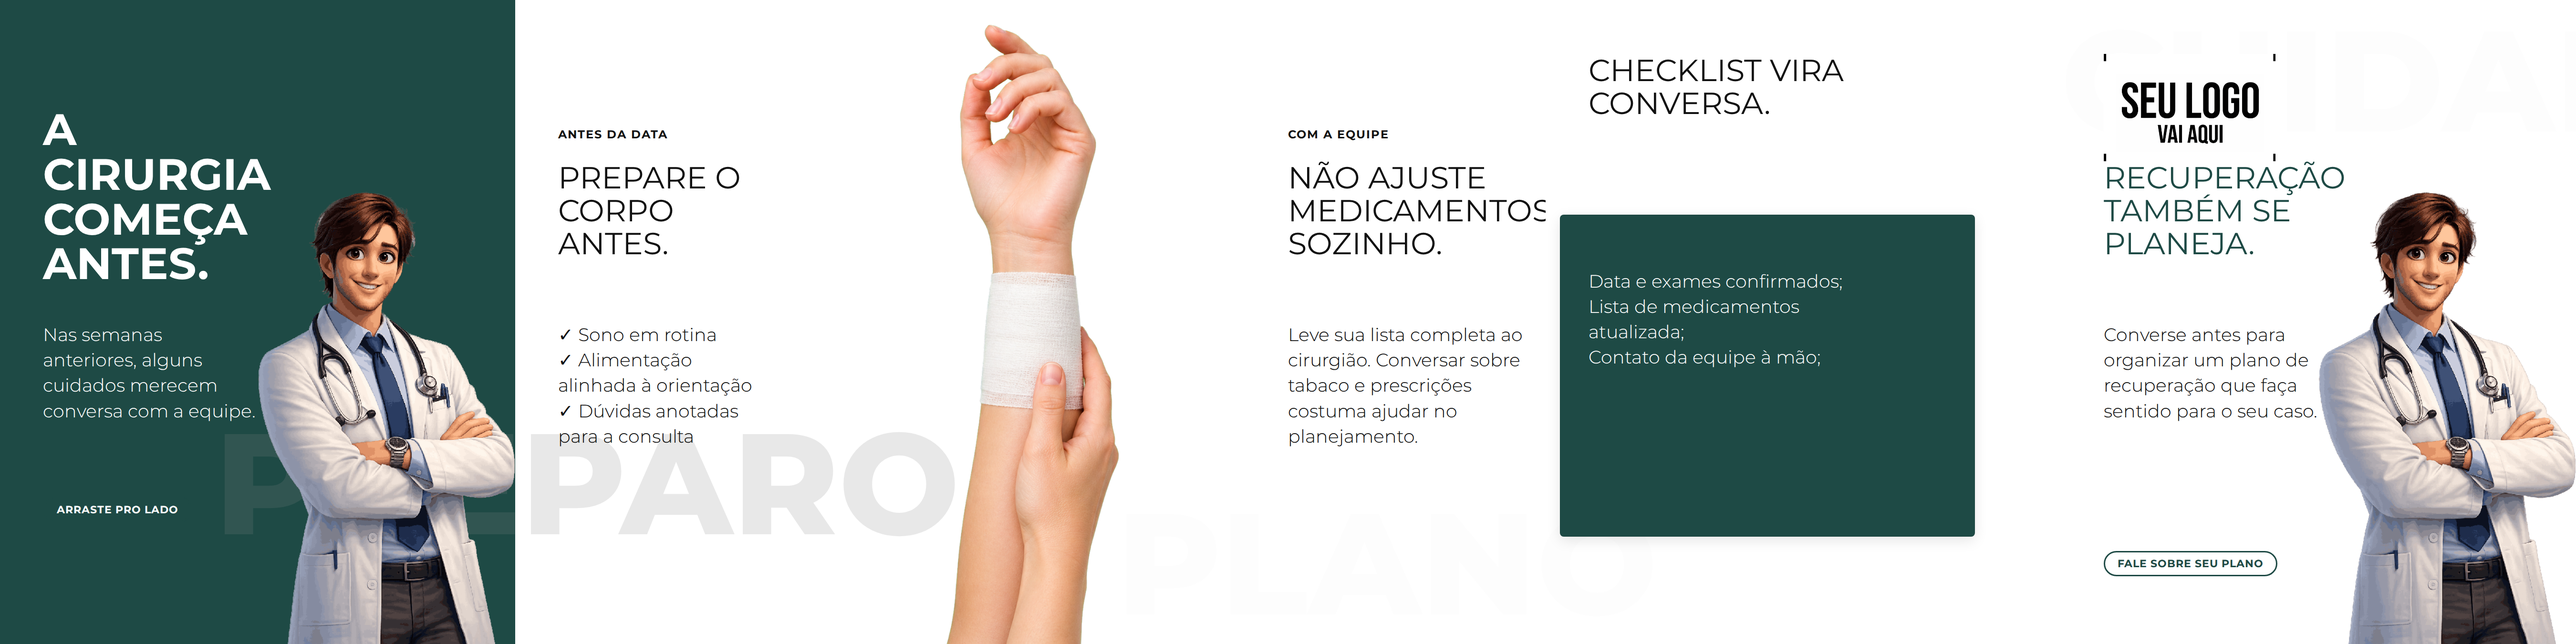
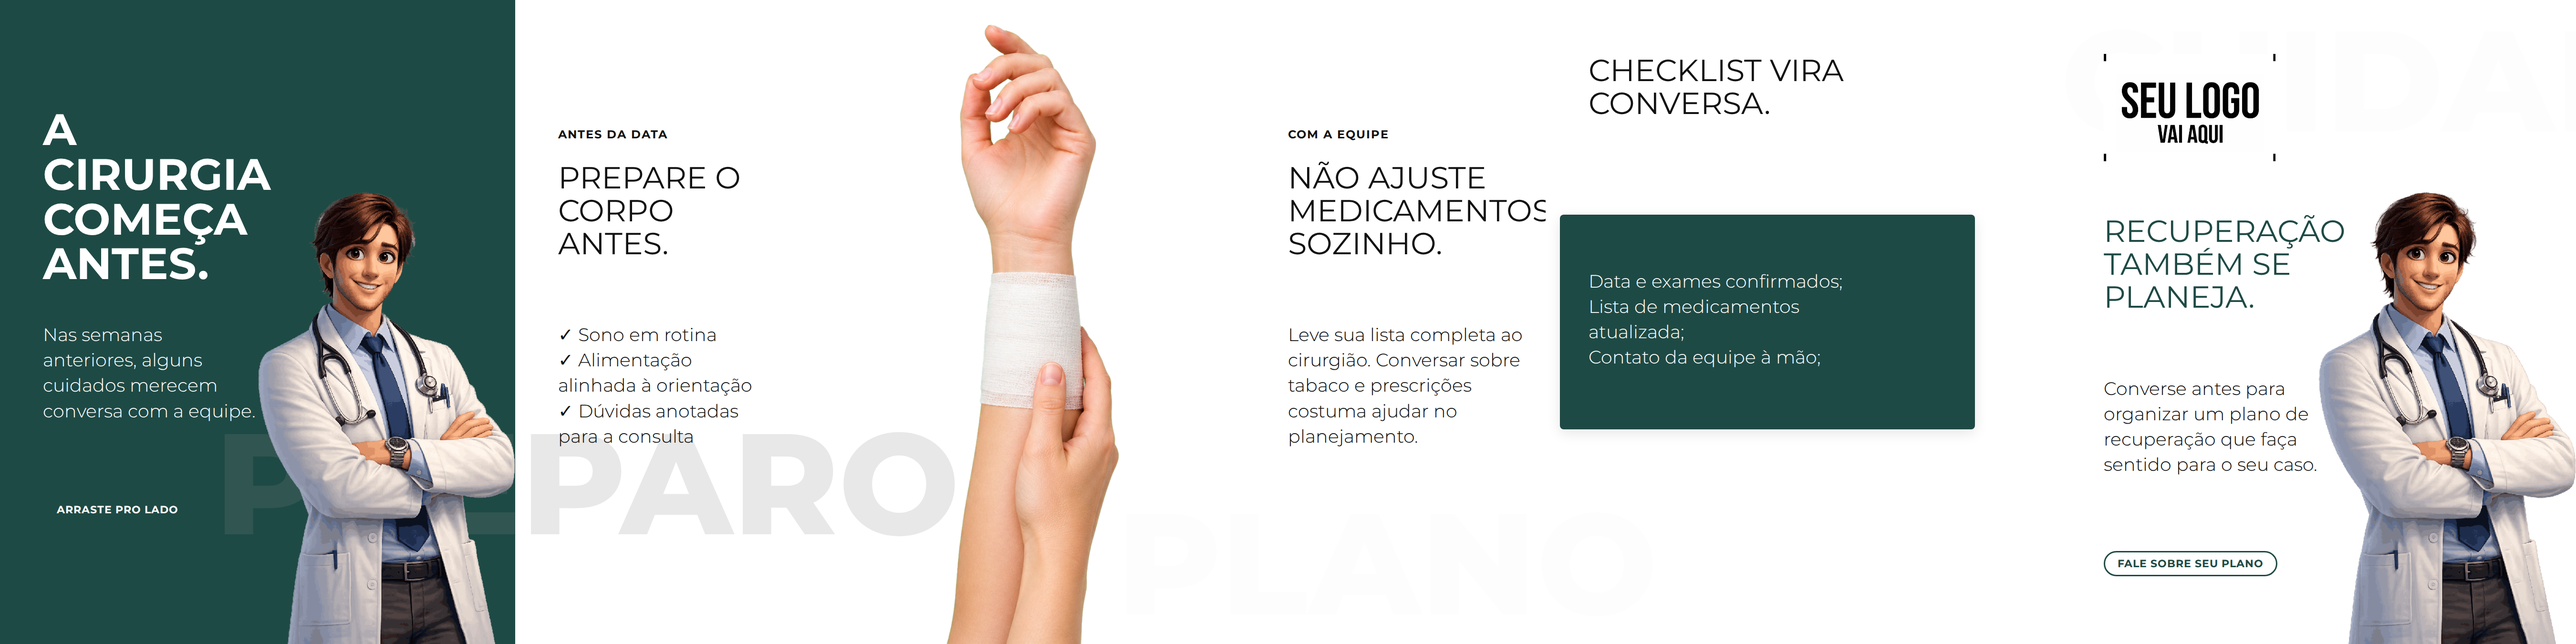
Fix pós-operatório preparation layout

diff --git a/artifacts/runs/posop-preparo-5/fita.html b/artifacts/runs/posop-preparo-5/fita.html
@@ -6,6 +6,6 @@
 <span class="ds-stamp" data-el-id="s1s" data-static data-tone="paper" style="grid-area:10 / 2 / 11 / 6">ARRASTE PRO LADO</span><img class="ds-slot" data-el-id="s1p" data-static data-layer data-slot="professionalPhoto" data-cutout src="assets/professional-photo-1.png" style="grid-area:4 / 7 / 13 / 13"/></section>
 <section class="slide" data-role="item"><p class="ds-eyebrow" data-el-id="s2e" data-static style="grid-area:3 / 2 / 4 / 7">ANTES DA DATA</p><h2 class="ds-headline" data-el-id="s2t" data-weight="light" data-template-element data-te-description="tese do preparo" data-te-min-chars="16" data-te-max-chars="48" style="grid-area:4 / 2 / 7 / 7">Prepare o corpo antes.</h2><p class="ds-body" data-el-id="s2a" data-weight="thin" data-template-element data-te-description="orientacoes pre operatorias" data-te-min-chars="60" data-te-max-chars="190" style="grid-area:7 / 2 / 11 / 7">✓ Sono em rotina<br>✓ Alimentação alinhada à orientação<br>✓ Dúvidas anotadas para a consulta</p></section>
 <section class="slide" data-role="item"><p class="ds-eyebrow" data-el-id="s3e" data-static style="grid-area:3 / 7 / 4 / 13">COM A EQUIPE</p><h2 class="ds-headline" data-el-id="s3t" data-weight="light" data-template-element data-te-description="tese medicamentos" data-te-min-chars="14" data-te-max-chars="46" style="grid-area:4 / 7 / 7 / 13">Não ajuste medicamentos sozinho.</h2><p class="ds-body" data-el-id="s3a" data-weight="thin" data-template-element data-te-description="orientacao sobre tabaco e medicamentos" data-te-min-chars="70" data-te-max-chars="210" style="grid-area:7 / 7 / 11 / 13">Leve sua lista completa ao cirurgião. Conversar sobre tabaco e prescrições costuma ajudar no planejamento.</p></section>
-<section class="slide" data-role="item"><h2 class="ds-headline" data-el-id="s4t" data-weight="light" data-template-element data-te-description="tese checklist" data-te-min-chars="12" data-te-max-chars="40" style="grid-area:2 / 2 / 4 / 11">Checklist vira conversa.</h2><div class="ds-card" data-el-id="s4c" data-static data-layer data-variable="primary" data-elevated="soft" data-inset-left style="grid-area:5 / 1 / 11 / 11"></div><p class="ds-body" data-el-id="s4a" data-tone="paper" data-weight="thin" data-template-element data-te-description="checklist pre operatorio" data-te-min-chars="55" data-te-max-chars="180" style="grid-area:6 / 2 / 10 / 9">Data e exames confirmados;<br>Lista de medicamentos atualizada;<br>Contato da equipe à mão;</p></section>
-<section class="slide" data-role="fechamento"><img class="ds-slot" data-el-id="s5l" data-static data-slot="logo" src="assets/logo-quadrada.png" style="grid-area:2 / 2 / 4 / 6"/><h2 class="ds-headline" data-el-id="s5t" data-tone="accent" data-weight="light" data-template-element data-te-description="fechamento" data-te-min-chars="20" data-te-max-chars="56" style="grid-area:4 / 2 / 7 / 7">Recuperação também se planeja.</h2><p class="ds-body" data-el-id="s5a" data-weight="thin" data-template-element data-te-description="cta educativo" data-te-min-chars="80" data-te-max-chars="220" style="grid-area:7 / 2 / 10 / 7">Converse antes para organizar um plano de recuperação que faça sentido para o seu caso.</p><span class="ds-stamp" data-el-id="s5c" data-static data-tone="accent" style="grid-area:11 / 2 / 12 / 7">FALE SOBRE SEU PLANO</span><img class="ds-slot" data-el-id="s5p" data-static data-layer data-slot="professionalPhoto" data-cutout src="assets/professional-photo-1.png" style="grid-area:4 / 7 / 13 / 13"/></section>
+<section class="slide" data-role="item"><h2 class="ds-headline" data-el-id="s4t" data-weight="light" data-template-element data-te-description="tese checklist" data-te-min-chars="12" data-te-max-chars="40" style="grid-area:2 / 2 / 4 / 11">Checklist vira conversa.</h2><div class="ds-card" data-el-id="s4c" data-static data-layer data-variable="primary" data-elevated="soft" data-inset-left style="grid-area:5 / 1 / 9 / 11"></div><p class="ds-body" data-el-id="s4a" data-tone="paper" data-weight="thin" data-template-element data-te-description="checklist pre operatorio" data-te-min-chars="55" data-te-max-chars="180" style="grid-area:6 / 2 / 10 / 9">Data e exames confirmados;<br>Lista de medicamentos atualizada;<br>Contato da equipe à mão;</p></section>
+<section class="slide" data-role="fechamento"><img class="ds-slot" data-el-id="s5l" data-static data-slot="logo" src="assets/logo-quadrada.png" style="grid-area:2 / 2 / 4 / 6"/><h2 class="ds-headline" data-el-id="s5t" data-tone="accent" data-weight="light" data-template-element data-te-description="fechamento" data-te-min-chars="20" data-te-max-chars="56" style="grid-area:5 / 2 / 8 / 7">Recuperação também se planeja.</h2><p class="ds-body" data-el-id="s5a" data-weight="thin" data-template-element data-te-description="cta educativo" data-te-min-chars="80" data-te-max-chars="220" style="grid-area:8 / 2 / 11 / 7">Converse antes para organizar um plano de recuperação que faça sentido para o seu caso.</p><span class="ds-stamp" data-el-id="s5c" data-static data-tone="accent" style="grid-area:11 / 2 / 12 / 7">FALE SOBRE SEU PLANO</span><img class="ds-slot" data-el-id="s5p" data-static data-layer data-slot="professionalPhoto" data-cutout src="assets/professional-photo-1.png" style="grid-area:4 / 7 / 13 / 13"/></section>
 <div class="fita-layer" data-split-ok><span class="ds-watermark" data-el-id="w1a" data-static data-layer data-ghost-sobre="acento" style="grid-area:8 / 6 / 12 / 18">PREPARO</span><span class="ds-watermark" data-el-id="w1b" data-static data-layer data-ghost-sobre="claro" style="grid-area:8 / 6 / 12 / 18">PREPARO</span><img class="ds-photo" data-el-id="f1" data-static data-layer data-image-type="generated" src="assets/preparo-antebraco.png" style="grid-area:1 / 20 / 13 / 30"/><span class="ds-watermark" data-el-id="w2" data-static data-layer data-ghost style="grid-area:10 / 27 / 13 / 39">PLANO</span><span class="ds-watermark" data-el-id="w3" data-static data-layer data-ghost style="grid-area:1 / 49 / 4 / 59">CUIDADO</span></div></main></body></html>

diff --git a/artifacts/runs/posop-preparo-5/judge-report.md b/artifacts/runs/posop-preparo-5/judge-report.md
@@ -1,6 +1,6 @@
 # Judge — posop-preparo-5
 
-Golden set: 7 exemplares do pack `laserpro-continuo`. Avaliação do render vigente: `strip.png` e cinco slides.
+Golden set: 7 exemplares do pack `laserpro-continuo`. Reavaliação do render vigente após correções de composição: `strip.png` e cinco slides.
 
 ## Regras duras (R1–R13)
 
@@ -16,5 +16,7 @@ Eliminados: nenhum.
 - Copy é educativa e condicional: sem garantia de cicatrização, percentuais, preço ou indicação individual.
 - A única imagem gerada é um fragmento vertical de antebraço com gaze limpa, sem ferida, rosto, torso ou cenário; PNG RGBA centralizado e sangrando na base.
 - Capa é o único slide escuro; o cartão em S4 concentra a ênfase sem criar outro fundo inteiro em cor.
+- S4: o cartão termina na linha 9, uma faixa de grid após o conteúdo visível, sem área de cor ociosa excessiva e com folga inferior preservada.
+- S5: a headline começa na linha 5; há uma linha inteira de respiro após o logo e os blocos de texto permanecem nas colunas 2–6, antes do `professionalPhoto` em 7–13.
 
 QA: PASS

diff --git a/artifacts/runs/posop-preparo-5/fidelity.md b/artifacts/runs/posop-preparo-5/fidelity.md
@@ -1,6 +1,6 @@
 # Fidelidade — posop-preparo-5
 
-- [x] Fundo, tipografia e grids correspondem ao HTML convertido.
+- [x] Fundo, tipografia e grids correspondem ao HTML convertido; S4 tem cartão ajustado ao conteúdo e S5 mantém uma linha de respiro entre logo e headline.
 - [x] Cinco slides e os `elId`s foram conservados no JSON.
 - [x] Travessia RGBA é a mesma em S2 e S3 e mantém a sangria inferior.
 - [x] Slots, logo e CTA mantêm a composição aprovada.
